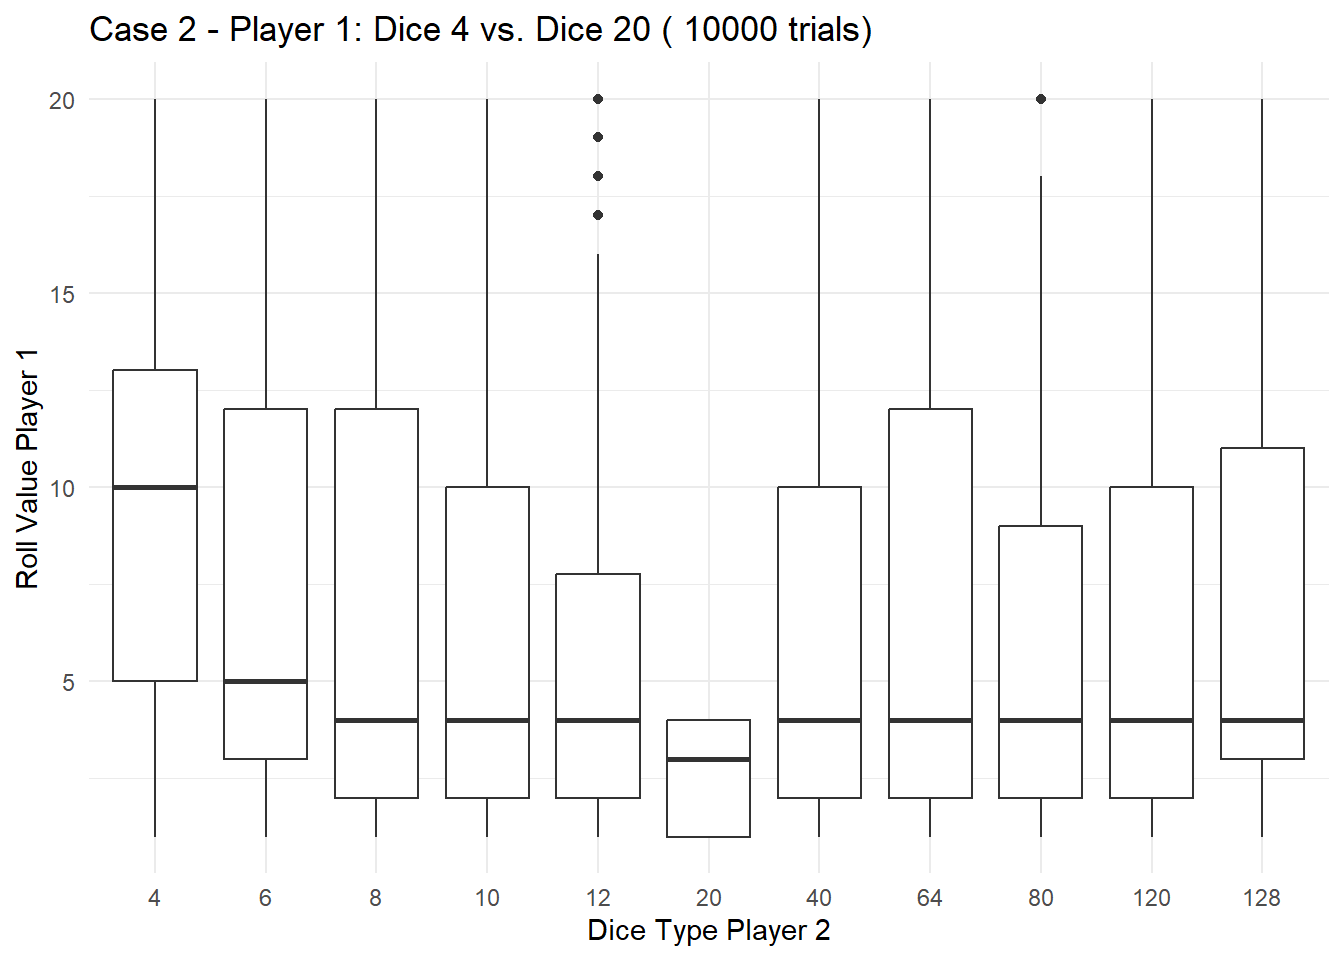
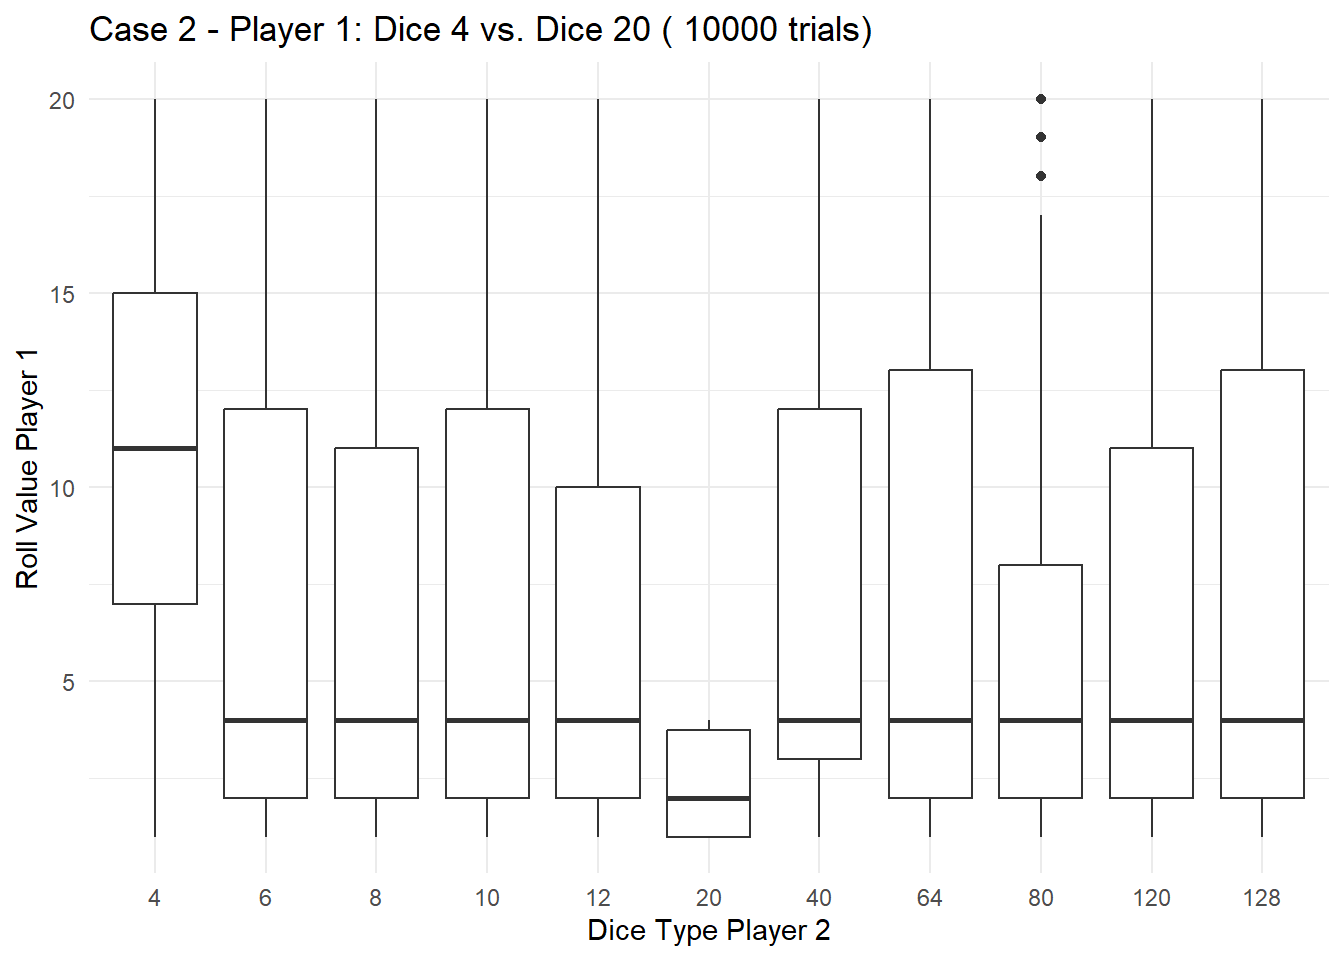
test

diff --git a/docs/posts/Riddle01/index.html b/docs/posts/Riddle01/index.html
@@ -358,21 +358,21 @@ Summary of Case 1 - Same Dice:</code></pre>
 <div class="cell-output cell-output-stdout">
 <pre><code>
    1    2    3    4    5    6    7    8    9   10   11   12   13   14   15   16 
-1539 1527 1524 1514 1041 1100  824  765  546  517  362  365  208  229  192  200 
+1540 1463 1570 1552 1112 1088  774  827  564  562  389  369  244  214  223  212 
   17   18   19   20   21   22   23   24   25   26   27   28   29   30   31   32 
- 202  234  216  240  132  144  150  134  123  120  134  132  124  128  139  122 
+ 198  204  206  208  128  141  109  118  111  132  110  123  139  114  140  129 
   33   34   35   36   37   38   39   40   41   42   43   44   45   46   47   48 
- 121  109  105  141  129  113  107  143   88   81   65   70   89   73   98   89 
+ 138  116  118  108  129  100  135  113   66   78   65   85   86   93   74   84 
   49   50   51   52   53   54   55   56   57   58   59   60   61   62   63   64 
-  84   75   83   96   83   89   80   81   74   75   77   79   81   78   86   89 
+  69   83   66  100   91   73   89   67   75   77   89   90  100   91   79   86 
   65   66   67   68   69   70   71   72   73   74   75   76   77   78   79   80 
-  63   44   40   57   45   50   59   46   49   42   55   69   52   49   62   62 
+  62   60   45   53   43   52   61   50   55   52   45   40   46   46   54   44 
   81   82   83   84   85   86   87   88   89   90   91   92   93   94   95   96 
-  35   29   33   24   36   44   30   21   23   33   36   28   33   27   30   21 
+  32   25   26   24   28   36   24   26   33   27   37   39   29   23   26   36 
   97   98   99  100  101  102  103  104  105  106  107  108  109  110  111  112 
-  23   28   23   24   27   33   32   33   22   25   21   29   28   39   28   34 
+  20   28   21   45   23   42   21   32   27   34   21   21   40   29   20   38 
  113  114  115  116  117  118  119  120  121  122  123  124  125  126  127  128 
-  27   37   30   35   22   36   27   23   20    9   12   18   19   18   15   18 </code></pre>
+  27   26   29   32   35   24   23   25   13   12   14    9   19   11   14   20 </code></pre>
 </div>
 <div class="sourceCode cell-code" id="cb11"><pre class="sourceCode r code-with-copy"><code class="sourceCode r"><span id="cb11-1"><a href="#cb11-1" aria-hidden="true" tabindex="-1"></a><span class="fu">cat</span>(<span class="st">"</span><span class="sc">\n</span><span class="st">Summary of Case 2 - Different Dice:</span><span class="sc">\n</span><span class="st">"</span>)</span></code><button title="Copy to Clipboard" class="code-copy-button"><i class="bi"></i></button></pre></div>
 <div class="cell-output cell-output-stdout">
@@ -383,7 +383,7 @@ Summary of Case 2 - Different Dice:</code></pre>
 <div class="cell-output cell-output-stdout">
 <pre><code>
 FALSE  TRUE 
-19344   656 </code></pre>
+19330   670 </code></pre>
 </div>
 </div>
 </section>

diff --git a/docs/listing.html b/docs/listing.html
@@ -467,7 +467,7 @@ Jan 12, 2024
 2 min
 </td>
 </tr>
-<tr data-index="15" data-categories="R,Fun" data-listing-date-sort="1705186800000" data-listing-file-modified-sort="1705246729428" data-listing-reading-time-sort="5.585" data-listing-title-sort="Title: Unraveling the DnD Dice Duel Riddle with Monte Carlo Simulation in R" data-listing-filename-sort="index.qmd">
+<tr data-index="15" data-categories="R,Fun" data-listing-date-sort="1705186800000" data-listing-file-modified-sort="1705247544823" data-listing-reading-time-sort="5.59" data-listing-title-sort="Title: Unraveling the DnD Dice Duel Riddle with Monte Carlo Simulation in R" data-listing-filename-sort="index.qmd">
 <td class="listing-image">
 <div class="table-img" style="height: 40px;">
 &nbsp;
